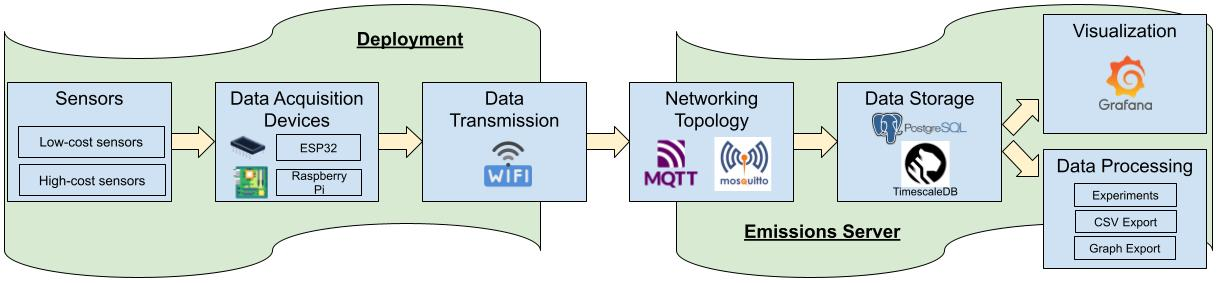
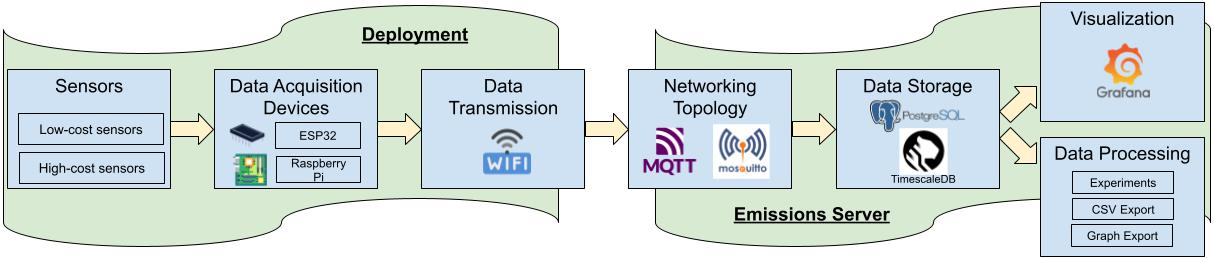
draft 1.0

diff --git a/chase_paper.tex b/chase_paper.tex
@@ -155,13 +155,13 @@ Sed ipsa numquam eos galisum laborum eum explicabo fuga rem molestiae aliquid eu
 
 Transportation is essential to modern society, with the movement of people and goods driving economic and social activity.
 In 2019, it was estimated that more than 70\% of US freight was transported by the trucking industry~\cite{bishop_utah_2022}.
-Diesel engines are a major source of harmful pollutants including Particulate Matter (PM) and Nitrogen Oxides (NOx), which are harmful to human health and the environment.
+Diesel engines are a major source of harmful pollutants, including Particulate Matter (PM) and Nitrogen Oxides (NOx), which are harmful to human health and the environment.
 For example, short-term exposure to diesel motor emissions can cause acute irritation and asthma-like symptoms, while long-term exposure is linked to increased mortality and lung cancer~\cite{wichmann_diesel_2007}.
 Other studies have linked traffic-related air pollution to increased risk of neurological conditions, including depression, anxiety, and dementia~\cite{miner_car_2024}.
-On-road vehicle emissions also damage our natural environment, contributing to global climate change~\cite{nat_geo_2025, anenberg_global_2019}
+On-road vehicle emissions also damage our natural environment, contributing to global climate change~\cite{nat_geo_2025, anenberg_global_2019}.
 
 Reducing on-road diesel emissions is therefore an important public health and environmental goal.
-Researchers have noted the large impact that targeting high-emitting vehicles can have on reducing overall emissions, noting that a small fraction of vehicles is responsible for a disproportionate amount of pollution.~\cite{CARB_2015, ban-weiss_measurement_2009, shen_evaluation_2022}
+Researchers have noted the large impact that targeting high-emitting vehicles can have on reducing overall emissions, noting that a small fraction of vehicles is responsible for a disproportionate amount of pollution~\cite{CARB_2015, ban-weiss_measurement_2009, shen_evaluation_2022}.
 Conventional strategies to reduce on-road pollution from diesel trucks include aftertreatment systems, onboard sensors, and government regulatory Inspection and Maintenance (I/M) programs.
 Aftertreatment systems significantly reduce NOx and PM emissions from new diesel vehicles, but most high-emitting vehicles are likely older or broken trucks with ineffective aftertreatment.
 I/M programs are designed to identify high-emitting vehicles through annual inspections, but researchers have questioned the effectiveness of such programs, showing that areas with I/M programs do not have a statistically significant decrease in emissions compared to areas without I/M programs~\cite{maricq_extreme_2025, bishop_inspection_2020}.
@@ -170,31 +170,36 @@ Roadside emissions monitoring systems provide an alternative approach to identif
 \subsection{Low-Cost Roadside Emissions Monitoring}
 
 While roadside emissions monitoring has been the focus of many research teams for estimating pollution from on-road vehicles~\cite{burgard_spectroscopy_2006, watne_fresh_2018, liu_roadside_2019, sugrue_comparing_2020, shen_evaluation_2022}, it has not yet been adopted for large-scale detection of high emitters.
-The main challenges are the high cost and complexity of such systems, with expensive sensing instruments that are often tens of thousands of dollars, and the need for onsite personel for operation and maintenance, and calibration.
-In this paper, we explore the use of low-cost sensors for roadside emissions monitoring, which could lead to a cost-effective widely deployable roadside emission monitorying system.
+The main challenges are the high cost and complexity of such systems, including expensive sensing instruments that can cost tens of thousands of dollars, and the need for on-site personnel for operation, maintenance, and calibration.
+In this paper, we explore the use of low-cost sensors for roadside emissions monitoring, which could lead to a cost-effective, widely deployable emissions monitoring system.
 
 Many studies have evaluated the quality of low-cost air quality sensors by comparing them to high-cost reference instruments. 
-Although low-cost sensors often follow a similar trend to high-costs sensors, they have been found to be less accurate, with significant measurement error and variability from sensor to sensor.~\cite{lewis_evaluating_2016,vogt_assessment_2021, jayaratne_influence_2018}
-High-cost sensors usually draw air into an internal chamber for analysis, while low-cost sensors perform analysis on ambient air and are effected by variable environmental conditions such as temperature, pressure, and air flow rate.
-Additionally, many lab-grade gas analyzers have sampling rates of up to 10 Hz, while most low-cost sensors can only be sampled at approximately 1 Hz or less.
-Low-cost sensors are designed and most often used for \textit{ambient sensing}, where the primary concern is measurement levels over the course of minutes, hours, or days.
+Although low-cost sensors often follow a similar trend to high-cost sensors, they have been found to be less accurate, with significant measurement error and variability from sensor to sensor~\cite{lewis_evaluating_2016,vogt_assessment_2021, jayaratne_influence_2018}.
+High-cost sensors usually draw air into an internal chamber for analysis, while low-cost sensors perform analysis on ambient air and are affected by variable environmental conditions, such as temperature, pressure, and airflow rate.
+Additionally, many lab-grade gas analyzers have sampling rates of up to 10 Hz, whereas most low-cost sensors can be sampled at only approximately 1 Hz.
+Low-cost sensors are designed and most often used for \textit{ambient sensing}, where the primary concern is measuring levels over minutes, hours, or days.
 
-Despite these limitations, low-cost sensors still might the potential to identify high-emitting vehicles, even if the absolute measurments are not exact.
-TODO: Mention Sugrue et al and shen et al and what they found about low-cost sensors for roadside emissions monitoring.
+Despite these limitations, low-cost sensors may still be able to identify high-emitting vehicles, even if the absolute measurements are not exact.
+Sugrue et al. first explored emission rate accuracy with lower-cost sensors, comparing a variety of CO$_2$ and Black Carbon (BC) sensors.
+While all of their low-cost sensors were still thousands of dollars, except for one, our low-cost sensors are all less than 200 dollars.
+They found that combinations of lower-cost CO$_2$ and BC sensors could still correctly identify 40-80\% of the highest emitters.
+Shen et al. used truly low-cost CO$_2$ and NO sensors in roadside emission monitoring, and found a correlation between low-cost emission rates and high-emitting trucks.
+However, they relied on a high-cost Condensation Particle Counter to calculate particle number emission rates.
+
 We design and deploy a roadside diesel emissions monitoring system using low- and high-cost sensors, enabling a direct comparison of the two sensor types for estimating vehicle emission rates in a laboratory and real-world setting.
-We also explore the use of machine learning to enhance low-cost sensor data, with the goal of improving the accuracy of emission rate estimates from low-cost sensors.
+We also explore the use of machine learning to enhance low-cost sensor data, aiming to improve the accuracy of emission rate estimates from these sensors.
 
 \section{Methodology}
 
 \subsection{Data Collection}
 
-We implemented a low-cost data acquisition pipeline for reliable data collection, storage, processesing, and visualization (Figure \ref{fig:pipeline}).
-As we evaluated a variety of low-cost sensors, our system collected data from up to 8 low-cost sensors and 4 high-cost sensors simultatneously.
-Table 1 summarizes the sensors we ended up using in this study.
+We implemented a low-cost data acquisition pipeline for reliable data collection, storage, processing, and visualization (Figure \ref{fig:pipeline}).
+As we evaluated a variety of low-cost sensors, our system simultaneously collected data from up to 8 low-cost and 4 high-cost sensors.
+Table 1 summarizes the sensors we used in this study.
 
 \begin{figure*}[t]
   \centering
-  \includegraphics[width=\textwidth]{figures/pipeline_diagram.jpg}
+  \includegraphics[width=0.9\textwidth]{figures/pipeline_diagram.jpg}
   \caption{diagram}
   \Description{description}
   \label{fig:pipeline}
@@ -224,16 +229,16 @@ Table 1 summarizes the sensors we ended up using in this study.
 \end{table}
 
 
-We interfaced with the low-cost sensors using an ESP32 microcontroller that communicated with sensors over I2C and UART protocols.
-The high-cost sensors were read using a Raspberry Pi, communicating with the UART protocol over USB serial connections.
-After the data analyzed in this papers was collected, we upgraded the low-cost data system to also use a Raspberry Pi microcomputer for more reliable data collection and easier interfacing with sensors.
+We interfaced with the low-cost sensors using an ESP32 microcontroller that communicated with them over I2C and UART protocols.
+The high-cost sensors were read using a Raspberry Pi, communicating via the UART protocol over USB serial connections.
+After the data analyzed in this paper was collected, we upgraded the low-cost data system to use a Raspberry Pi microcomputer for more reliable data collection and easier sensor interfacing.
 
-Data was transmitted from these data aquisition devices over the local wifi network in the labratory, and using Starlink internet connection in the field deployment.
-We used the MQTT pup-sub protocol, with Mosquitto MQTT broker running on a local server.
-Python scripts listened to MQTT topics an stored incoming data into our postgreSQL database.
-We used TimescaleDB, a postgreSQL extension for time-series data, to effieciently store our sensor data.
+Data was transmitted from these data acquisition devices over Wi-Fi during laboratory testing and using a Starlink internet connection during the field deployment.
+We used the MQTT pub-sub protocol, with a Mosquitto MQTT broker running on a local server.
+Python scripts listened to MQTT topics and stored incoming data into our PostgreSQL database.
+We used TimescaleDB, a PostgreSQL extension for time-series data, to efficiently store our sensor data.
 We also used Grafana to create dashboards for data visualization, allowing for real-time monitoring during data collection.
-We set up a website on our local server to provide easy access to Grafana and out database.
+We set up a website on our local server to provide easy access to Grafana and our database.
 We also created a page to easily record experiment start and end times in the database and export data in a time-aligned CSV format.
 
 \begin{figure}[htbp]
@@ -244,22 +249,22 @@ We also created a page to easily record experiment start and end times in the da
 	\label{fig:roadside}
 \end{figure}
 
-In laboratory testing, used a diesel engine mounted on a test rig with a dynamometer.
+In laboratory testing, we used a diesel engine mounted on a test rig with a dynamometer.
 We simulated trucks driving past by using a 3-way solenoid valve to switch between sampling exhaust and ambient room air.
 Air was sampled through an inlet near the engine exhaust and drawn through tubing to be distributed to the high and low-cost sensors.
 In the field, we had one inlet above the road to sample trucks with high exhausts, and one inlet in a speedbump to sample trucks with low exhausts (Figure \ref{fig:roadside}). 
-The low-cost sensors were housed in a metal canister with inlets and outlets allowing them to receive a controlled sample of exaust similar to the high-cost sensors.
+The low-cost sensors were housed in a metal canister with inlets and outlets allowing them to receive a controlled sample of exhaust similar to the high-cost sensors.
 Electrical connections to the low-cost sensors were passed into the canister through an airtight bulkhead connector.
 
 \subsection{Emission Rates}
 
-Once we collected data from trucks, the standard used to compare low-cost sensors to high-cost sensors is emission rates. 
-This is more important than directly comparing measured values between low-cost and high-cost sensors, because low-cost sensors still have the potential to identify high-emitting trucks, even if they do to match the high-cost sensors exactly in calibration.
+Once we collected data, the standard for comparing low-cost sensors to high-cost sensors was fuel-based emission rates. 
+This is more important than directly comparing measured values between low-cost and high-cost sensors, because low-cost sensors could still identify high-emitting trucks, even if they do not match the high-cost sensors exactly in calibration.
 It would still provide great value if a low-cost sensor could find trucks that are worse relative to other trucks. 
 
-We calculated the fuel base-emission rate of PM and NOx using a the same method as Sugrue et al. 
-For this method, a peak in the data is identified, and the ratio of the pollutant to CO$_2$ is calculated by the ratio of the area under the curve of the peak.
-This ratio is scaled by constants to acheive the proper units of grams of pollutant per kilogram of fuel burned. 
+We calculated the fuel-based emission rate of PM and NOx using the same method as Sugrue et al. 
+For this method, a peak in the data is identified, and the dilution of the exhaust sample is accounted for by calculating the ratio of pollutant to CO$_2$ from the peak area.
+This ratio is scaled by constants to achieve the proper units of grams of pollutant per kilogram of fuel burned. 
 In equations \ref{eq:pmrate} and \ref{eq:noxrate}, $wfc$ is a constant representing the weight fraction of carbon in diesel fuel (0.87).
 $MC$ is the molar mass of carbon (12 $g/mol$), and MNOx is the molar mass of NO$_2$, which is (46 $g/mol$).
 Multiplying by $10^3$ converts the units to $g/kg$.
@@ -274,11 +279,11 @@ NO_x \ ER = \frac{\int_{t_1}^{t_2} [NO_x(t_1) - NO_x(t_2)] dt}{\int_{t_1}^{t_2} 
 \label{eq:noxrate}
 \end{equation}
 
-We use Python to perform these calculations on widows of data the contain a peak or a series of peaks. 
-We use the \verb|find_peaks()| function from the \verb|scipy| library along with some post processing to identify peaks with start and end times.
-We then generate a baseline that represents the abient levels of the polluntant using asymmetric least squares baseline algorithm.
+We use Python to perform these calculations on windows of data that contain a peak or a series of peaks. 
+We use the \verb|find_peaks()| function from the \verb|scipy| library along with some post-processing to identify peaks with start and end times.
+We then generate a baseline representing the ambient levels of the pollutant using the asymmetric least-squares baseline algorithm.
 Then we find the area between the peak and the baseline during the start and end times of the peak using \verb|scipy.integrate.trapezoid()|.
-This automation process in Python provides a convenient way to compare emission rates in a large dataset.
+This Python automation process provides a convenient way to compare emission rates across a large dataset.
 An output of this process is shown in Figure \ref{fig:emission_ex}.
 
 \begin{figure}[htbp]
@@ -291,20 +296,20 @@ An output of this process is shown in Figure \ref{fig:emission_ex}.
 
 \subsection{Improving Low-cost Sensor Data With LSTM}
 
-Machine learning (ML) approaches have been explored as calibration strategies for low-cost sensors, with models such as gradient boosting, support vector regression, random forest, and neural networks being common in the liturature~\cite{si_evaluation_2020, wang_leveraging_2023, dubey_low-cost_2024}.
-We consider the use of Long Short-Term Moemory (LSTM) networks which operate on a sequence of data, and can learn the temporal behavior of high- and low-cost sensors.
+Machine learning (ML) approaches have been explored as calibration strategies for low-cost sensors, with models such as gradient boosting, support vector regression, random forests, and neural networks being common in the literature~\cite{si_evaluation_2020, wang_leveraging_2023, dubey_low-cost_2024}.
+We consider the use of Long Short-Term Memory (LSTM) networks, which operate on sequences of data and can learn the temporal behavior of high- and low-cost sensors.
 
-TODO: Backround info on how LSTM works.
+TODO: Background info on how LSTM works.
 
 LSTMs have been applied to low-cost air-quality sensor data in several studies.
 In some cases, the LSTMs were used to forecast future pollutant levels~\cite{belavadi_air_2020, mani_comparative_2021}.
 These studies achieved good results and demonstrate the ability of LSTMs to learn temporal patterns in a sequence of low-cost sensor data.
 A few studies used an LSMTS as a calibration method, as other ML models were~\cite{park_assessment_2021, han_calibrations_2021}.
-Both studies found the LSTM to be effective for calibrating low-cost sensors to reference instruments.
+Both studies found that the LSTM was effective at calibrating low-cost sensors against reference instruments.
 One study used an LTSM CNN ensemble model for calibration~\cite{yu_deep_2020}. 
 
 Notably, most existing studies focus on ambient pollution levels over days or months using hourly sampling data.
-One study evaluated calibration methods at sampling intervals of 5, 10, 30, and 60 minutes, finding that data with lower sampling rates led to better calibration performance (Wang).
+One study evaluated calibration methods at sampling intervals of 5, 10, 30, and 60 minutes, finding that lower sampling rates yielded better calibration performance (Wang).
 This highlights the challenges of applying low-cost sensors to short-duration analyses of high-resolution data.
 At higher resolutions, the limitations of low-cost sensors are magnified.
 
@@ -314,14 +319,14 @@ We evaluate whether ML-calibrated data leads to accurate emission-rate estimates
 
 \subsection {Dataset}
 
-In the laboratory, we performed a series of tests to simulate trucks driving past our system.
+In the laboratory, we conducted a series of tests simulating trucks driving past our system.
 We alternated the intake between ambient room air and engine exhaust to create repeated passing events, performing five consecutive exposures for each test.
-An example of one such traffic simulation test is seen in Figure \ref{fig:emission_ex}.
+An example of one such traffic simulation test is shown in Figure \ref{fig:emission_ex}.
 We tested different traffic scenarios by varying both the duration of exposure to exhaust and the time between exposures.
 
-We trained an LSTM on this set laboratory data.
-Of the 36 traffic simulation tests, we reserved five to act as testing data, and trained on the remaining tests.
-When we had muliple low-cost sensors for the same pollutant, we used both sequences as inputs to the model and trained to predict the high-cost sensor data.
+We trained an LSTM on this set of laboratory data.
+Of the 36 traffic simulation tests, we reserved five for testing and trained on the remaining 31.
+When we had multiple low-cost sensors for the same pollutant, we used both sequences as inputs to the model and trained it to predict the high-cost sensor data.
 During our in-lab traffic simulation tests, we did not have a low-cost NO$_x$ sensor capable of reliably capturing peaks, so we only analyzed PM emission rates from these tests.
 An example of PM data from a laboratory test is shown in Figure \ref{fig:lstmexamplepm}.
 
@@ -334,10 +339,10 @@ An example of PM data from a laboratory test is shown in Figure \ref{fig:lstmexa
 \end{figure}
 
 To collect real-world data, we deployed our system on the roadside for three days at Perry Port of Entry in Utah.
-After deployment, we sifted through this data to find clear peaks that cooresponded to a passing truck, and grabbed a 60-second window around each peak for analysis.
-Overall, the data from the field deployment was lower quality than the lab data, with many trucks not producing distinguishable peaks.
+After deployment, we sifted through this data to identify clear peaks corresponding to passing trucks, then grabbed a 60-second window around each peak for analysis.
+Overall, the field-deployed data was of lower quality than the lab data, with most trucks not producing distinguishable peaks.
 The most reliable sensors with the most peaks were the NOx sensors, so we focused our analysis on NOx emission rates from the field deployment, with the high-cost CO$_2$ sensor used to calculate dilution.
-We identifed 104 valid peaks from the three days of data, and trained the LSTM model on 81 of these peaks, reserving 23 for testing.
+We identified 104 valid peaks across the three days of data and trained the LSTM model on 81 of them, reserving 23 for testing.
 While each test in laboratory data contained five consecutive peaks, the field data usually contained only one peak per window.
 
 \section{Results}
@@ -345,13 +350,13 @@ While each test in laboratory data contained five consecutive peaks, the field d
 \subsection{Lab Testing}
 
 The high-cost sensors exhibited clear peaks, with steep rises and falls.
-In contrast, the low-cost sensors responded more slowly, and often did not have time to fall back to baseline levels before the next peak began---even with 30-second gaps between exposures.
-Our low-cost PM sensors were the Plantower PMS1003 and the Senserion SPS30, with the Senserion SCD30 and the MH-Z16 as our low-cost CO$_2$ sensors.
-The dekati was used as the high-cost reference sensor for PM and the licor was used as the high-cost reference sensor for CO$_2$.
+In contrast, the low-cost sensors responded more slowly and often did not have time to return to baseline levels before the next peak began---even with 30-second gaps between exposures.
+Our low-cost PM sensors were the Plantower PMS1003 and the Senserion SPS30, and our low-cost CO$_2$ sensors were the Senserion SCD30 and the MH-Z16.
+The Dekati was used as the high-cost reference sensor for PM, and the Licor was used as the high-cost reference sensor for CO$_2$.
 Emission rates for all peaks were calculated for each combination of PM with CO$_2$ sensor.
-In many tests, the low-cost sensors did not have a fast enough response time to capture all of the peaks, so these missed peaks are not counted as valid samples.
+In many tests, the low-cost sensors did not have fast enough response times to capture all peaks, so these missed peaks are not counted as valid samples.
 Once all emission rates were calculated, we compared how similar the resulting emission rates were between combinations that used a low-cost sensor, and the high-cost with high-cost combination (Dekati/LiCor).
-These mean errors of emission rates compared to the the gold standard combination are shown in table \ref{tab:emissionerrorlab}.
+These mean errors of emission rates compared to the gold standard combination are shown in Table \ref{tab:emissionerrorlab}.
 
 \begin{table}[htbp]
 \centering
@@ -375,13 +380,13 @@ SPS30/MH-Z16      & 7727.740  & 125 \\
 \end{table}
 
 Overall, the low-cost sensors performed poorly in reproducing the emission rates of the high-cost sensors.
-Across all sensor combinations, the lowest mean error was Plantower/Licor at 61.7\%.
+Across all sensor combinations, the lowest mean error was 61.7% with Plantower/Licor.
 This is a low-cost PM sensor with the high-cost CO$_2$ sensor.
-The best combination of only low-cost sensors was Plantower/SCD30 at 72.7\% error.
-This indicates that the differences in peak magnitude and shape make it difficult for low-cost sensors to match high-cost sensors.
+The best combination of low-cost sensors was Plantower/SCD30, with 72.7\% error.
+This indicates that differences in peak magnitude and shape make it difficult for low-cost sensors to match those of high-cost sensors.
 
 However, if we use the LSTM model to enhance the low-cost sensor data, we can significantly improve the accuracy of emission rate estimates.
-The coorelation of raw low-cost sensor data to high-cost sensor data is calculated in Tables \ref{tab:lstmerrorco2} and \ref{tab:lstmerrorpm}, along with the coorelation of LSTM enhanced data based purely off of the two low-cost sensors inputs.
+The correlation between raw low-cost sensor data and high-cost sensor data is calculated in Tables \ref{tab:lstmerrorco2} and \ref{tab:lstmerrorpm}, along with the correlation of LSTM-enhanced data that is based solely on the two low-cost sensor inputs.
 
 \begin{table}[h!]
 \centering
@@ -403,7 +408,7 @@ R$^2$ &      0.00956 &     -0.15314 &     0.91287 \\
 
 \begin{table}[h!]
 \centering
-\caption{Metrics of how well low-cost PM sensors and ML prediction compare to Dekati PM on testing set of data (5 tests)}
+\caption{Metrics of how well low-cost PM sensors and ML prediction compare to Dekati PM on the testing set of data (5 tests)}
 \label{tab:lstmerrorpm}
 \begin{tabular}{lrrr}
 \toprule
@@ -419,10 +424,10 @@ R$^2$ &    -0.16500 &     0.58177 &    0.93205 \\
 \end{tabular}
 \end{table}
 
-This shows that the LSTM leads a clear improvement over the low-cost sensors alone, especially when using $R^2$ as the metric.
-This improved data also leads to better emission rate estimates.
-In order to make a fair comparison, we only compared the emisison rates calculated form the 5 tests that were reserved for testing the LSTM model.
-These results are summarized in table \ref{tab:emissionerrorlab_ml}. 
+This shows that the LSTM leads to a clear improvement over the low-cost sensors alone, especially when using $R^2$ as the metric.
+This improved data also yields better estimates of emission rates.
+To make a fair comparison, we only compared the emission rates calculated from the 5 tests reserved for testing the LSTM model.
+These results are summarized in Table \ref{tab:emissionerrorlab_ml}. 
 
 \begin{table}[h!]
 \centering
@@ -454,11 +459,11 @@ SPS30/MH-Z16         & 8079.576 & 17 \\
 \end{tabular}
 \end{table}
 
-We can see that the LSTM improved the error percentage of the emission rate estimates.
-Although the error of the best low-cost sensor combination (48\%) was lower on this smaller dataset, the rates predicted by a combination of the LSTM enhanced PM data and the LSTM enhanced CO$_2$ data still improved to a mean error 18\%.
+We can see that the LSTM reduced the mean error of emission rate estimates.
+Although the error of the best low-cost sensor combination (48\%) was lower on this smaller dataset, the rates predicted by a combination of LSTM-enhanced PM data and LSTM-enhanced CO$_2$ data still improved to a mean error of 18\%.
 While this improvement on raw emission rates is promising, the motivating question of our work is whether low-cost sensors could identify high-emitting trucks.
 To evaluate this, we compared whether the highest emission rates measured by the low-cost sensors happened on the same peaks as the highest emission rates measured by the high-cost sensors
-The results in table \ref{tab:percentmatchlab_ml} are also only calculated on the test set of five laboratory experiments to make it a fair comparison for the ML predictions.
+The results in table \ref{tab:percentmatchlab_ml} are also calculated only on the test set of five laboratory experiments to ensure a fair comparison with the ML predictions.
 
 \renewcommand\theadfont{\small}
 \begin{table}[h!]
@@ -492,17 +497,17 @@ SPS30/MH-Z16       &    0.0  &    0.0  &  25.0 \\
 \end{tabular}
 \end{table}
 
-These results also show significant improvement when using the LSTM enhanced data.
-The combination of LSTM enhanced PM and CO$_2$ data identified a greater percent of high-emitters than any combination of two low-cost sensors.
-However, only 33\% match in the top 10\% is not very high, but is also a byproduct of the small sample size for that group.
-Although machine learning significaly improved the emission rate estimates and high-emitter identification of low-cost sensors, the mean error and top X-percent matchin metrics are not what would be desired for widespread use.
+These results also show significant improvement when using the LSTM-enhanced data.
+The combination of LSTM-enhanced PM and CO$_2$ data identified a higher percentage of high emitters than any combination of two low-cost sensors.
+However, only a 33\% match in the top 10\% is not very high, but it is also a byproduct of the small sample size for that group.
+Although machine learning significantly improved the estimates of emission rates and the identification of high emitters by low-cost sensors, the mean error and top X-percent matching metrics are not what would be desired for widespread use.
 
 \subsection{Deployment}
 
 As mentioned before, the sensors performed much worse in the field, with the most viable data coming from the high-cost CO$_2$ sensor and the NO$_x$ sensors.
 The reduced performance of our sensors is most likely due to the challenge of capturing a strong sample of exhaust from a passing vehicle.
 The absolute emission rates calculated by the Alphasense differed substantially from those measured by the high-cost Ecophysics instrument (Table \ref{tab:emissionerrornox}), with a mean error of 720\%.
-This large difference is despite the fact that both sensors used the same high-cost CO$_2$ sensor for dilution calculation.
+This large difference occurs despite both sensors using the same high-cost CO$_2$ sensor for dilution calculations.
 
 \begin{table}[htbp]
 \centering
@@ -518,7 +523,7 @@ alphasense/licor     & 720.951  & 104 \\
 \end{tabular}
 \end{table}
 
-The results of how well LSTM enhance data compares to the high-cost Ecophysics data is summarized in Table \ref{tab:lstmerrornox}.
+The results of how well LSTM-enhanced data compares to the high-cost Ecophysics data are summarized in Table \ref{tab:lstmerrornox}.
 
 \begin{table}[h!]
 \centering
@@ -537,9 +542,9 @@ R$^2$ &    -0.03560  &   0.57955 \\
 \label{tab:lstmerrornox}
 \end{table}
 
-While the LSTM did improve correlation significantly, it was not able to match the high-cost data as well as the ML models for the lab data.
-The LSTM well matching low-cost data when peaks were large, but most of the peaks in the field deployment were small and close to the noise level of the low-cost sensor.
-The performance of this LSTM enhance data on emission rates for the testing dataset is summarized in Tables \ref{tab:emissionerrorperryml} and \ref{tab:percentmatchnoxml}.
+While the LSTM did improve correlation significantly, it did not match the high-cost data as well as the ML models for the lab data.
+The LSTM performed well at matching low-cost data when peaks were large, but most peaks in the field deployment were small and close to the noise level of the low-cost sensor.
+The performance of this LSTM-enhanced data on emission rates for the testing dataset is summarized in Tables \ref{tab:emissionerrorperryml} and \ref{tab:percentmatchnoxml}.
 
 \begin{table}[htbp]
 \centering
@@ -576,27 +581,27 @@ NO$_x$-Pred/Licor     & 115.338  & 23 \\
 \end{table}
 
 Interestingly, while the LSTM improved the mean error of emission rates from 225\% to 115\%, it did not improve the ability to identify high-emitting trucks.
-The shows the the Alphasense NO-B4 sensor has a strong ability to comparatively identify high-emitting trucks when paired with a high-cost CO$_2$ sensor.
-Another reason for the improved performance in top X-percent matching from the low-cost sensor alond could be that there is more true variability in emission rates encountered in the field compared to the lab, where every peak came from the same engine.
+The shows the Alphasense NO-B4 sensor has a strong ability to comparatively identify high-emitting trucks when paired with a high-cost CO$_2$ sensor.
+Another reason for the improved performance in top X-percent matching from the Alphasense low-cost sensor is likely that there is greater variability in emission rates encountered in the field than in the lab, where every peak came from the same engine.
 
 \section{Conclusion}
 
 Heavy-duty on-road vehicles remain a significant source of harmful pollutants, including NO$_x$, and Particulate Matter.
 One strategy for characterizing real-world emissions is roadside emission monitoring, which provides an in-use external evaluation of passing vehicles.
-We investigated the use of low-cost sensors for roadside emissions monitoring, by comparing them to high-cost reference instruments in both laboratory and real-world settings.
+We investigated the use of low-cost sensors for roadside emissions monitoring by comparing them to high-cost reference instruments in both laboratory and real-world settings.
 
-We developed a reliabled low-cost data acquisition system for collecting, storing, and visualizing data from multiple low- and high-cost sensors.
-With the data we collected, we calculated emission rates for peaks in the data and compared the performance of low-cost sensors to high-cost sensors.
-We found that using an LSTM network, we could significantly improve the correlation of low-cost sensor data to high-cost sensor data for short term windoes of data samplede every 2 seconds.
+We developed a reliable low-cost data acquisition system for collecting, storing, and visualizing data from multiple low- and high-cost sensors.
+Using the data we collected, we calculated emission rates for peaks in the data and compared the performance of low-cost sensors with that of high-cost sensors.
+We found that using an LSTM network could significantly improve the correlation between low-cost and high-cost sensor data for short-term windows sampled every 2 seconds.
 The ability of LSTMs to learn temporal patterns helped correct for the slow response time of low-cost sensors.
 
 This improved data led to better emission rate estimates from low-cost PM and CO2 sensors in laboratory testing, reducing the mean error from over 60\% to under 20\%.
-The LSTM enhanced data also improved the ability of low-cost sensors to correctly identify the top 10-30\% of peaks with the highest PM emission rates in the laboratory.
-In the field deployment, the LSTM also improved the mean error of NO emission rates from the low-cost sensor, but did not improve the ability to identify high-emitting trucks compared to the raw low-cost sensor data.
+The LSTM-enhanced data also improved the ability of low-cost sensors to correctly identify the top 10-30\% of peaks with the highest PM emission rates in the laboratory.
+In the field deployment, the LSTM also reduced the mean error in NO emission rates from the low-cost sensor, but did not improve the ability to identify high-emitting trucks compared to raw low-cost sensor data.
 
 Overall, our results show that low-cost sensors have potential for roadside emissions monitoring, especially when combined with machine learning techniques to enhance data quality.
 Low-cost sensors and machine learning models perform best when there is a strong signal to capture, which can be challenging in real-world roadside deployments.
-Further work is needed to improve the reliability of low-cost sensors in field deployments, and to explore the transferability of machine learning models across different settings and sensor units.
+Further work is needed to improve the reliability of low-cost sensors in field deployments and to explore the transferability of machine learning models across different settings and sensor units.
 
 %%
 %% The next two lines define the bibliography style to be used, and
